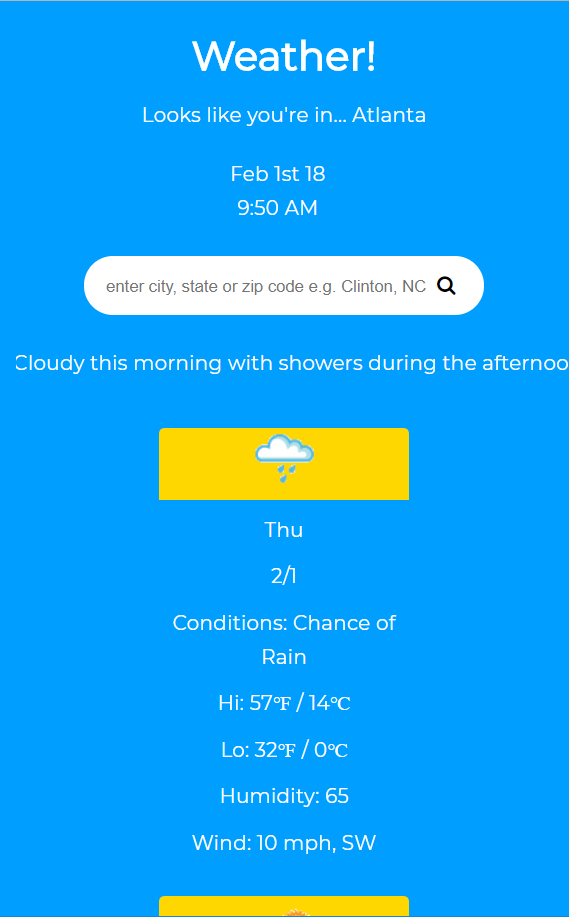
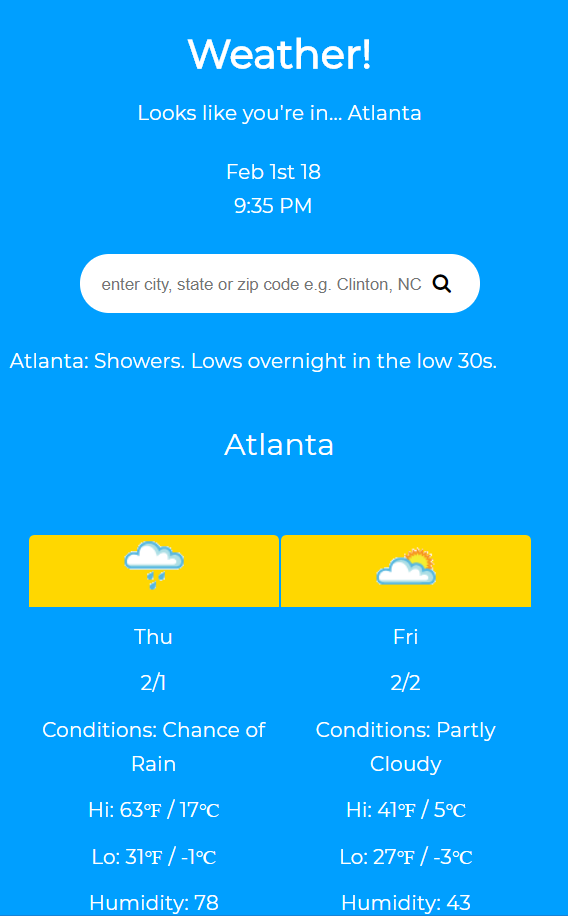
update screencaptures

diff --git a/README.md b/README.md
@@ -19,9 +19,10 @@ weather-d3mo.herokuapp.com
 ### Screencaptures
 
 #### Mobile
-![screen-capture-weather](https://user-images.githubusercontent.com/26694930/35684699-ba5e36bc-0735-11e8-9f6c-47e5d3340691.png)
+![screen-capture-weather](https://user-images.githubusercontent.com/26694930/35713972-25e4e5a4-0798-11e8-8aa2-fa9dbb381072.png)
 
 #### Web
-![screen-capture-web-weather](https://user-images.githubusercontent.com/26694930/35685725-76767c0e-0738-11e8-97a9-87ff9306c980.png)
+![screen-capture-web-weather](https://user-images.githubusercontent.com/26694930/35713828-791f499a-0797-11e8-8bba-338ccaf2358e.png)
+
 
 
